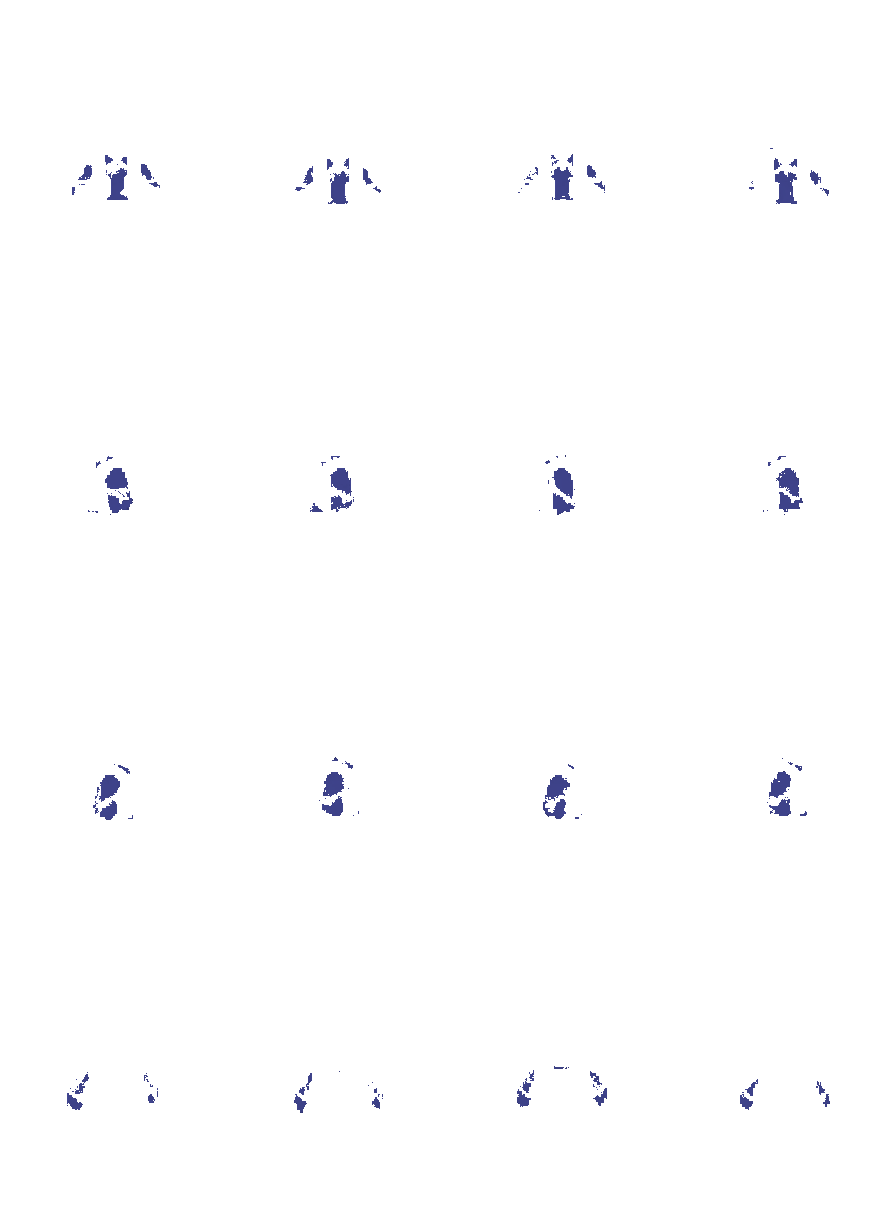
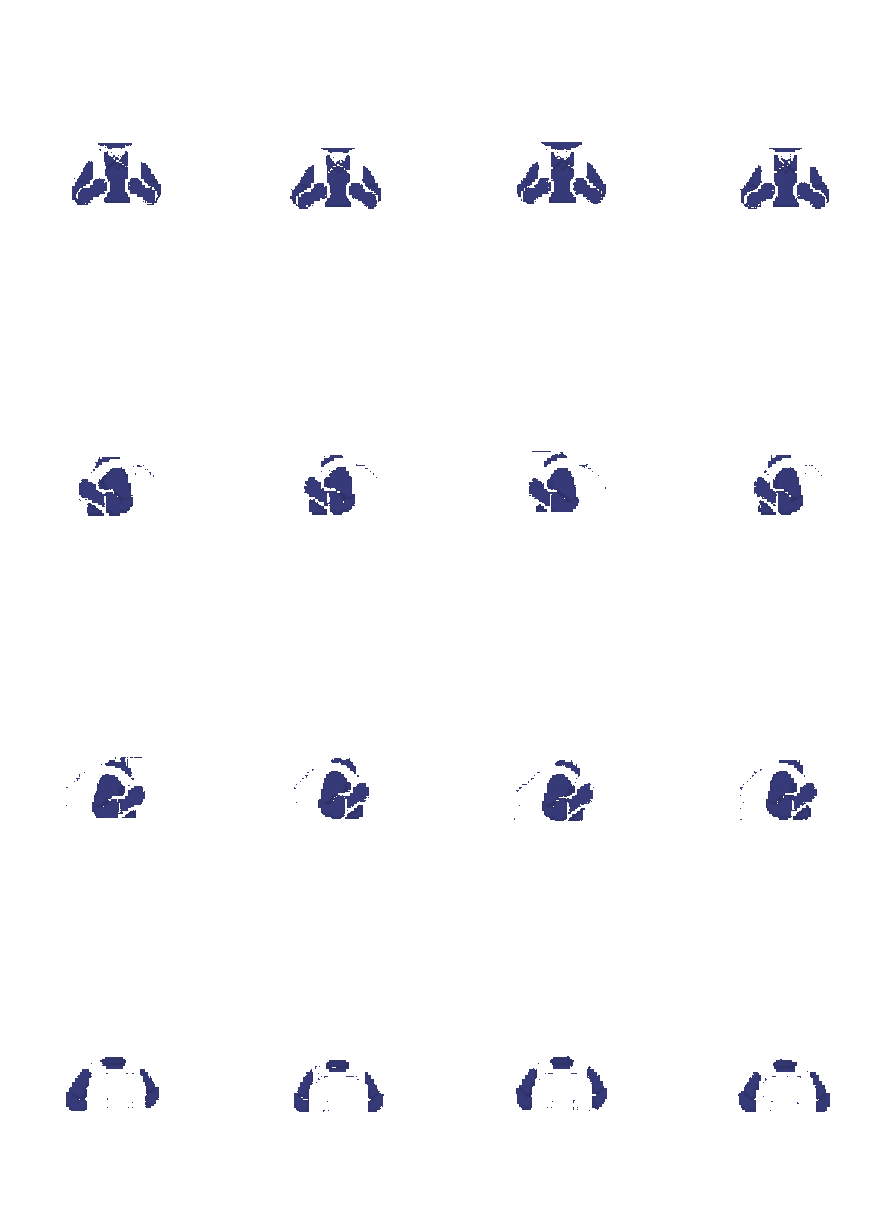
Fix blotchy outfit overlays: paint the torso region instead of color-matching
Color rules could not separate the beige shirt from skin tones, so only
patches were recolored. Outfit overlays now fill the torso band (down
from the pants start, below the chin), skipping hair, backpack and pants,
with light shading preserved.

Claude-Session: https://claude.ai/code/session_01Mpvqff1aVtKLo136D1qDnf

diff --git a/scripts/make-item-sprites.py b/scripts/make-item-sprites.py
@@ -12,6 +12,14 @@ def frame_info(r, c):
     al = A[r * FH:(r + 1) * FH, c * FW:(c + 1) * FW, 3] > 200; ys, xs = np.where(al); top, bot = ys.min(), ys.max(); H = bot - top
     row = np.where(al[top + max(8, int(0.10 * H))])[0]                      # 머리 윗부분의 폭
     return dict(top=top, bot=bot, H=H, x0=xs.min(), x1=xs.max(), hx=(row.min() + row.max()) / 2, hw=row.max() - row.min() + 1)
+def torso_rows(blk, f):
+    """몸통 가로 띠: 아래는 바지가 시작하는 줄, 위는 그보다 몸 높이의 27% 위(턱·목 아래)."""
+    al = blk[..., 3] > 200; cx = int((f['x0'] + f['x1']) / 2); start = None
+    for y in range(f['top'] + int(0.55 * f['H']), f['bot']):
+        seg = blk[y, max(0, cx - 22):cx + 22]; dark = [(q[3] > 200) and colorsys.rgb_to_hsv(q[0] / 255, q[1] / 255, q[2] / 255)[2] < 0.45 for q in seg]
+        if sum(dark) >= 8: start = y; break
+    start = start or f['top'] + int(0.64 * f['H'])
+    return start - int(0.225 * f['H']), start + int(0.045 * f['H'])
 def put(sheet, im, r, c, cx, cy_bottom):
     x = int(round(cx - im.width / 2)); y = int(round(cy_bottom - im.height))
     layer = Image.new('RGBA', (FW, FH), (0, 0, 0, 0)); layer.paste(im, (x, y), im)          # 프레임 밖은 잘린다
@@ -28,16 +36,17 @@ def make(item):
                 im = trim(icon(item)); h = int(f['H'] * 0.24); im = im.resize((max(1, round(im.width * h / im.height)), h), Image.LANCZOS)
                 side = 1 if r in (0, 2, 3) else -1                                   # 정면·오른쪽·뒤: 몸의 오른쪽(화면 기준), 왼쪽 향함: 왼쪽
                 cx = (f['x0'] + f['x1']) / 2 + side * 0.30 * (f['x1'] - f['x0']); put(sheet, im, r, c, cx, f['top'] + int(f['H'] * 0.74))
-            else:                                                                       # 옷: 셔츠 색만 바꾼 겹침
+            else:                                                                       # 옷: 몸통 영역을 통째로 칠한다(색으로 셔츠를 가려내면 피부색과 겹쳐 얼룩이 생긴다)
                 tr = OUTFIT[item]; blk = A[r * FH:(r + 1) * FH, c * FW:(c + 1) * FW].copy(); out = np.zeros_like(blk)
-                y0, y1 = f['top'] + int(0.34 * f['H']), f['top'] + int(0.68 * f['H'])
-                for y in range(y0, min(y1, FH)):
+                y0, y1 = torso_rows(blk, f)
+                for y in range(y0, y1):
                     for x in range(FW):
                         p = blk[y, x]
                         if p[3] < 200: continue
-                        h_, s_, v_ = colorsys.rgb_to_hsv(p[0] / 255, p[1] / 255, p[2] / 255); gr = p[1] / max(1, p[0])
-                        if gr >= 0.82 and p[0] >= 120 and s_ <= 0.52 and h_ <= 0.17:        # 베이지 셔츠는 G/R이 높다(≈0.89). 피부는 ≈0.70~0.78, 가방·바지는 채도가 훨씬 높다
-                            k = max(0.45, min(1.15, v_ / 0.85)); out[y, x] = [min(255, int(tr[0] * k)), min(255, int(tr[1] * k)), min(255, int(tr[2] * k)), 255]
+                        h_, s_, v_ = colorsys.rgb_to_hsv(p[0] / 255, p[1] / 255, p[2] / 255)
+                        if s_ >= 0.62 or v_ < 0.5: continue                      # 머리카락·가방·바지·그림자(진한 색)는 그대로 둔다
+                        k = 0.78 + 0.45 * (v_ - 0.55)                            # 원래 명암을 살짝만 남겨 한 가지 천처럼 보이게
+                        out[y, x] = [max(0, min(255, int(tr[0] * k))), max(0, min(255, int(tr[1] * k))), max(0, min(255, int(tr[2] * k))), 255]
                 sheet.alpha_composite(Image.fromarray(out), (c * FW, r * FH))
     sheet.save(f'public/assets/avatar/item-{item}.png'); print(item)
 for it in ['hat_scholar', 'hat_beret', 'hat_crown', 'outfit_cardigan', 'outfit_cape', 'outfit_pilot', 'acc_quill', 'acc_bookrest', 'acc_rose']: make(it)

diff --git a/docs/ASSETS.md b/docs/ASSETS.md
@@ -258,4 +258,4 @@
 | `public/assets/shop/<아이템id>.png` ×9 | 상점 아이템 시트(모자·옷·소품) → 상점 카드 그림 | `python3 scripts/slice-assets.py <상점시트> <종류아이콘시트>` |
 | `public/assets/kinds/<종류>.png` ×9 | 종류 아이콘 시트(한 줄 평·서평·팬아트·굿즈·코스프레·외전·웹소설·웹툰·기타) → 탭·뱃지·작성 힌트 | 같은 스크립트 |
 | `public/assets/avatar/character-walk.png` | 캐릭터 4×4 시트(아래·왼쪽·오른쪽·위) | `python3 scripts/make-character-sheet.py <원본>` (머리 위 여유 포함) |
-| `public/assets/avatar/item-<id>.png` ×9 | 캐릭터에 입히는 겹침 시트(같은 4×4). 모자·소품은 프레임마다 머리/몸 위치에 아이템 그림을 얹고, 옷은 셔츠 색만 바꾼다 | `python3 scripts/make-item-sprites.py` |
+| `public/assets/avatar/item-<id>.png` ×9 | 캐릭터에 입히는 겹침 시트(같은 4×4). 모자·소품은 프레임마다 머리/몸 위치에 아이템 그림을 얹고, 옷은 몸통 영역(바지 시작 줄 위, 목 아래)을 한 가지 천 색으로 통째로 칠한다(머리카락·가방·바지는 제외). 셔츠 색을 색 값으로 가려내면 피부색과 겹쳐 얼룩이 생겨서 영역 방식으로 바꿨다 | `python3 scripts/make-item-sprites.py` |
